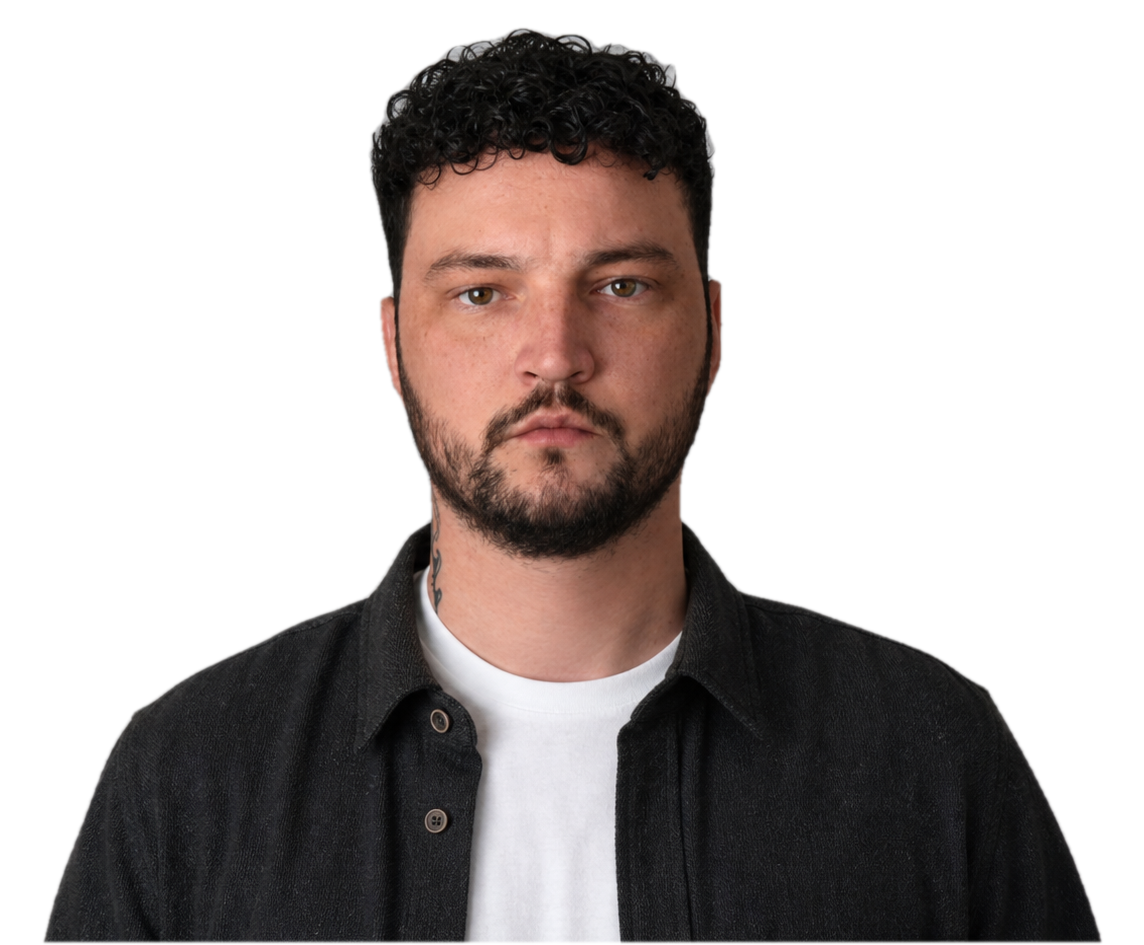
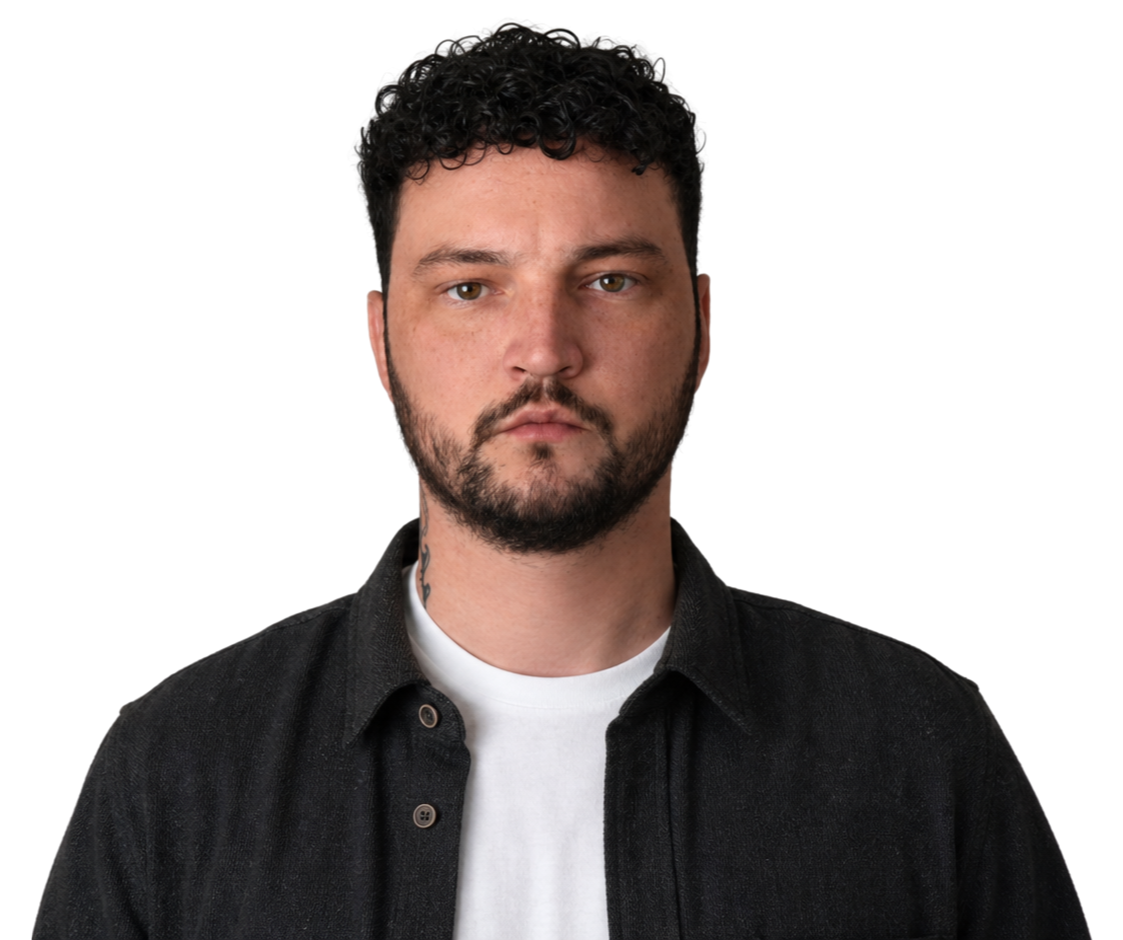
Nouvelle photo hero, scroll plus réactif, couleur sur les pages projet
- portrait.png remplacé par PortraitV2 (déjà détourée par l'utilisateur,
  juste recadrée serrée + optimisée).
- Hero : conteneur 200svh -> 125svh. Le rideau qui recouvre le hero
  démarrait après un plein écran de scroll sans aucun changement
  visuel ; ne reste plus que 25% de zone morte avant que la
  transition ne commence.
- Pages projet (cover, galerie) ne sont plus en niveaux de gris —
  l'effet N&B reste uniquement sur la home (Hero, Selected Works).

diff --git a/src/components/Hero.tsx b/src/components/Hero.tsx
@@ -7,11 +7,13 @@ export function Hero() {
   const [videoFailed, setVideoFailed] = useState(false)
 
   return (
-    // Conteneur 2x plus haut que l'écran : le Hero (sticky) reste figé à
-    // l'écran pendant qu'on scroll ce conteneur, ce qui laisse le temps à la
-    // section suivante (About, fond noir) de glisser par-dessus depuis le
-    // bas — effet "rideau qui se lève" façon inspiration.
-    <div id="top" className="relative h-[200svh]">
+    // Conteneur plus haut que l'écran : le Hero (sticky) reste figé pendant
+    // qu'on scroll ce conteneur, ce qui laisse le temps à la section
+    // suivante (About, fond noir) de glisser par-dessus depuis le bas —
+    // effet "rideau qui se lève". Volontairement proche de 100svh (pas
+    // 200svh) pour que le scroll réagisse tout de suite : juste assez de
+    // marge pour que le rideau ait le temps de monter, sans zone morte.
+    <div id="top" className="relative h-[125svh]">
       <section className="sticky top-0 h-[100svh] overflow-hidden pt-28">
         <motion.p
           initial={{ opacity: 0 }}

diff --git a/src/pages/ProjectPage.tsx b/src/pages/ProjectPage.tsx
@@ -67,7 +67,7 @@ export function ProjectPage() {
                 src={project.cover}
                 alt={project.title}
                 label={`Cover — ${project.title}`}
-                className="h-full w-full grayscale"
+                className="h-full w-full"
               />
             )}
           </div>
@@ -98,7 +98,7 @@ export function ProjectPage() {
                     src={src}
                     alt={`${project.title} — photo ${i + 1}`}
                     label={`${project.title} — image ${i + 1}`}
-                    className="h-full w-full grayscale"
+                    className="h-full w-full"
                   />
                 </div>
               </Reveal>
